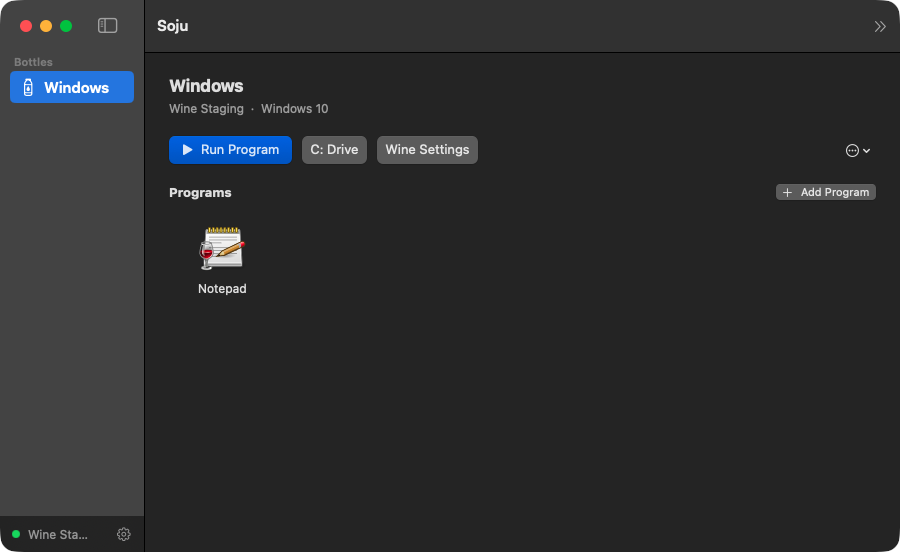
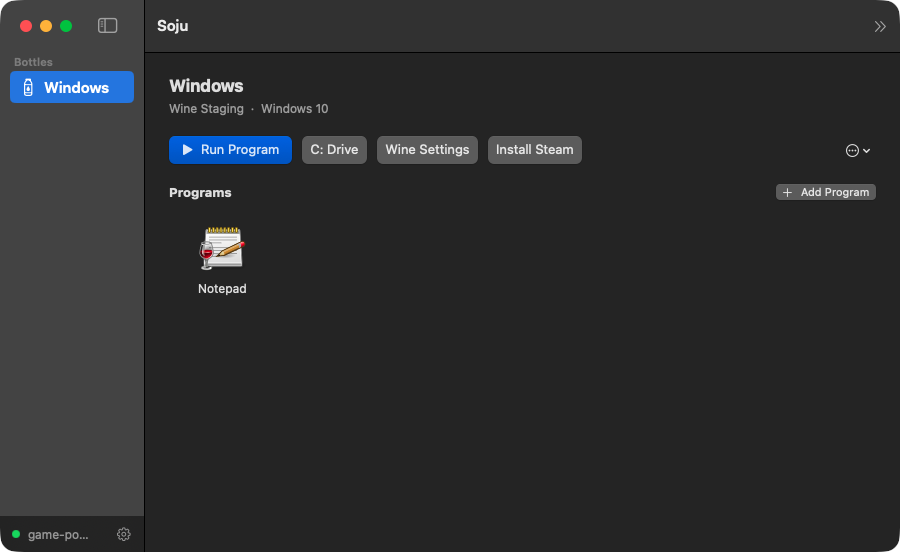
Korean README, language switcher, updated screenshots
README.ko.md now committed (dropped the *.ko.md ignore rule for this
repo). Hero shot shows the Steam button; Korean font proof shot added.

Changed region(s): [[0.5289, 0.2464, 0.6533, 0.308], [0.0311, 0.9547, 0.0933, 0.9855]]

diff --git a/README.ko.md b/README.ko.md
@@ -1,0 +1,85 @@
+<div align="center">
+  <img src="Resources/AppIcon.png" width="140" alt="Soju 아이콘">
+  <h1>Soju</h1>
+  <p><i>위스키 다음은 소주</i></p>
+  <p>
+    <a href="../../actions/workflows/ci.yml"><img src="https://img.shields.io/github/actions/workflow/status/0oooh/soju/ci.yml?branch=main&label=CI" alt="CI"></a>
+    <img src="https://img.shields.io/badge/macOS-14%2B-blue" alt="macOS 14+">
+    <img src="https://img.shields.io/badge/license-MIT-green" alt="MIT license">
+  </p>
+  <p><a href="README.md">English</a> | 한국어</p>
+</div>
+
+맥에서 윈도우 앱과 게임을 — 진짜 맥 앱처럼 실행하세요. Whisky의 개발이 2025년에 중단된 뒤, Soju는 네이티브 SwiftUI로 만든 오픈소스 후계자입니다. Whisky에는 없던 대표 기능이 하나 있습니다: 어떤 윈도우 프로그램이든 독립 실행되는 맥 앱으로 만들어 줍니다.
+
+<div align="center">
+  <img src="docs/assets/main.png" width="650" alt="Soju 메인 화면: 보틀과 고정된 프로그램">
+  <p><i>보틀, 원클릭 실행, exe에서 직접 추출한 진짜 프로그램 아이콘</i></p>
+</div>
+
+## 특징
+
+- **맥 앱으로 내보내기** — 프로그램을 우클릭하면 독립 `.app`이 생깁니다. exe 안의 진짜 아이콘까지 추출해서 Dock, Launchpad, Spotlight에 등록되고, Soju가 꺼져 있어도 더블클릭으로 바로 실행됩니다.
+- **보틀** — 클릭 한 번으로 만드는 독립 윈도우 환경. 보틀마다 윈도우 버전(11, 10, 8.1, 7, XP)을 따로 설정할 수 있습니다.
+- **엔진 두 종류** — 일반용 [Wine Staging](https://github.com/Gcenx/macOS_Wine_builds), 그리고 DirectX 12 게임용 애플 [Game Porting Toolkit](https://github.com/Gcenx/game-porting-toolkit)(D3DMetal). 둘 다 필요할 때 업스트림 릴리즈에서 내려받으며, 이미 설치된 Wine이나 CrossOver도 자동 인식합니다.
+- **스팀 원클릭 설치** — Valve 공식 CDN에서 설치 파일을 받아 보틀 안에서 바로 실행해 줍니다.
+- **한글 폰트 픽스** — 새 보틀에 Noto Sans CJK KR과 폰트 매핑(맑은 고딕, 굴림 등)이 자동으로 들어가서, 한글이 네모(두부)로 깨지지 않습니다. 기본 켜짐, 끌 수 있음.
+- **Whisky 가져오기** — 쓰던 Whisky 보틀을 클릭 한 번에 옮겨 옵니다.
+- 네이티브 SwiftUI, 라이트/다크 모드. Electron 없음, Homebrew 없음, 터미널 없음.
+
+<div align="right">
+  <img src="docs/assets/korean-fonts.png" width="520" alt="Wine 메모장에서 한글이 정상 렌더링되는 모습">
+  <p><i>한글이 처음부터 제대로 나옵니다 — 두부 없음</i></p>
+</div>
+
+## 시스템 요구사항
+
+- macOS 14 Sonoma 이상
+- Apple Silicon: Rosetta 2 필요 — Soju가 직접 확인하고 설치 명령어 한 줄을 알려줍니다
+- Intel 맥 지원 (유니버설 바이너리)
+
+## 설치
+
+[Releases](../../releases)에서 최신 `Soju-*.zip`을 받아 압축을 풀고 `Soju.app`을 응용 프로그램 폴더로 옮기세요.
+
+빌드는 공증(notarize)되어 있지 않습니다(이 프로젝트 뒤에 유료 개발자 계정이 없습니다). 첫 실행 시 macOS가 경고하면 앱을 우클릭해서 열기를 선택하거나, 다음을 실행하세요:
+
+```
+xattr -cr /Applications/Soju.app
+```
+
+## Whisky에서 넘어오기
+
+Soju가 기존 Whisky 보틀을 자동으로 찾아 줍니다 — 툴바의 가져오기 버튼을 누르면 끝. 프리픽스는 복사 방식이라 원본은 그대로 남습니다.
+
+## 작동 방식
+
+Soju 자체는 얇은 네이티브 관리자이고, 호환 레이어는 [Wine](https://www.winehq.org/)입니다. 엔진은 `~/Library/Application Support/Soju/Engines`에, 보틀은 `.../Soju/Bottles`에 일반 Wine 프리픽스로 저장됩니다. 내보낸 맥 앱은 엔진·보틀·프로그램 경로가 새겨진 작은 런처 번들이라 즉시, 독립적으로 실행됩니다.
+
+## 소스에서 빌드
+
+```
+git clone https://github.com/0oooh/soju
+cd soju
+Scripts/build-app.sh
+open build/Soju.app
+```
+
+Swift 5.9+ (Xcode 커맨드라인 툴) 필요. `swift test`로 유닛 테스트를, `SOJU_IT=1 swift test --filter Integration`으로 실제 엔진을 사용하는 전체 수명주기 테스트를 실행할 수 있습니다.
+
+## 로드맵
+
+- DXMT·DXVK 그래픽 백엔드 (Metal 위에서 더 빠른 DirectX 11)
+- 커뮤니티 게임 레시피 — 게임별 검증된 설정을 원클릭 적용
+- Winetricks 통합
+- 공증된 릴리즈
+
+## 크레딧
+
+- [Wine](https://www.winehq.org/) — 이 모든 것을 가능하게 하는 호환 레이어 (LGPL)
+- [Gcenx](https://github.com/Gcenx) — 꾸준히 관리되는 macOS Wine 빌드
+- [Whisky](https://github.com/Whisky-App/Whisky) — 이 프로젝트의 영감. 편히 쉬기를
+
+## 라이선스
+
+Soju 코드는 MIT입니다. Soju는 Wine을 번들하거나 재배포하지 않으며, 엔진은 첫 실행 시 업스트림 릴리즈에서 내려받습니다.

diff --git a/README.md b/README.md
@@ -7,6 +7,7 @@
     <img src="https://img.shields.io/badge/macOS-14%2B-blue" alt="macOS 14+">
     <img src="https://img.shields.io/badge/license-MIT-green" alt="MIT license">
   </p>
+  <p>English | <a href="README.ko.md">한국어</a></p>
 </div>
 
 Run Windows apps and games on your Mac — from a real Mac app. Whisky's development ended in 2025; Soju is an open-source successor built with native SwiftUI, with one signature trick Whisky never had: it turns any Windows program into a standalone Mac app.
@@ -25,6 +26,11 @@ Run Windows apps and games on your Mac — from a real Mac app. Whisky's develop
 - **Korean font fix** — new bottles get Noto Sans CJK KR and the right font mappings, so Korean text renders instead of boxes. On by default, optional.
 - **Whisky import** — your old Whisky bottles come over in one click.
 - Native SwiftUI, light and dark mode. No Electron, no Homebrew, no terminal.
+
+<div align="right">
+  <img src="docs/assets/korean-fonts.png" width="520" alt="Wine Notepad rendering Korean text correctly">
+  <p><i>Korean text works out of the box — no more empty boxes</i></p>
+</div>
 
 ## System Requirements
 
